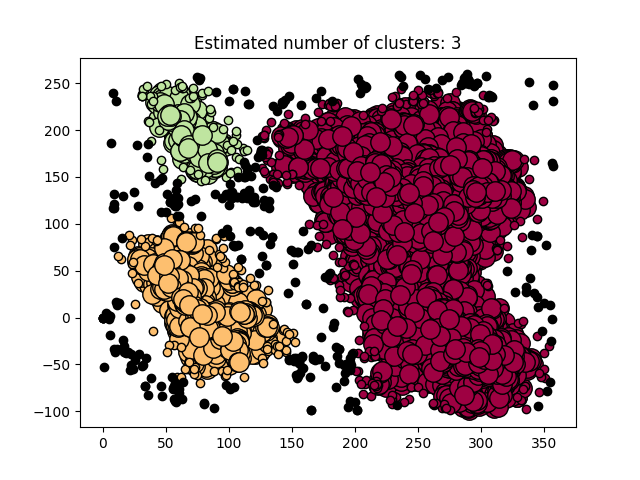
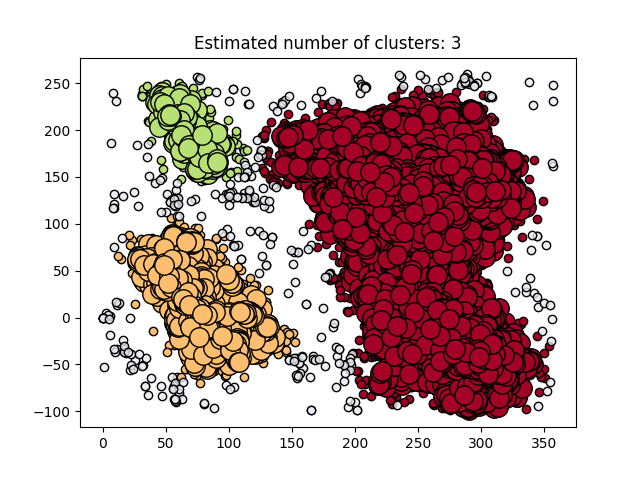
doing noises

diff --git a/assignment3/src/dbscan/dbscan.py b/assignment3/src/dbscan/dbscan.py
@@ -26,7 +26,7 @@ X = df[[PHI, PSI]]
 
 # #############################################################################
 # Compute DBSCAN
-db = DBSCAN(eps=35, min_samples=3).fit(X)
+db = DBSCAN(eps=14, min_samples=4).fit(X)
 
 # create array same size as dataset, init as all false
 core_samples_mask = np.zeros_like(db.labels_, dtype=bool)
@@ -58,12 +58,13 @@ for u_label, color in zip(unique_labels, colors):
     # make unassigned datapoints grey
     if isNoise:
         color = [232/255, 236/255, 241/255, 0.8]
+        noiseMask = (labels == u_label)
 
     # create mask for labels, used for selecting which datapoints to plot
     class_member_mask = (labels == u_label)
-    
+
     # PLOT NON-CORE DATAPOINTS
-    # Filter xy, get only non-core datapoints 
+    # Filter xy, get only non-core datapoints
     non_core = X[class_member_mask & ~core_samples_mask]
     plt.plot(non_core[PHI], non_core[PSI], 'o', markerfacecolor=tuple(color),
              markeredgecolor="black", markersize=6)
@@ -84,5 +85,17 @@ n_noise_ = list(labels).count(-1)
 # print("Silhouette Coefficient: %0.3f"
 #      % metrics.silhouette_score(X, labels))
 
-plt.title('Estimated number of clusters: %d' % n_clusters_)
-plt.show()
+
+# print(noiseMask)
+
+df_noise = df[noiseMask]
+
+
+
+df_noise = df_noise.drop(columns=["position", "chain", "phi","psi"])
+
+df_noise = df_noise.value_counts()
+
+print(df_noise)
+
+print(df_noise.index)
